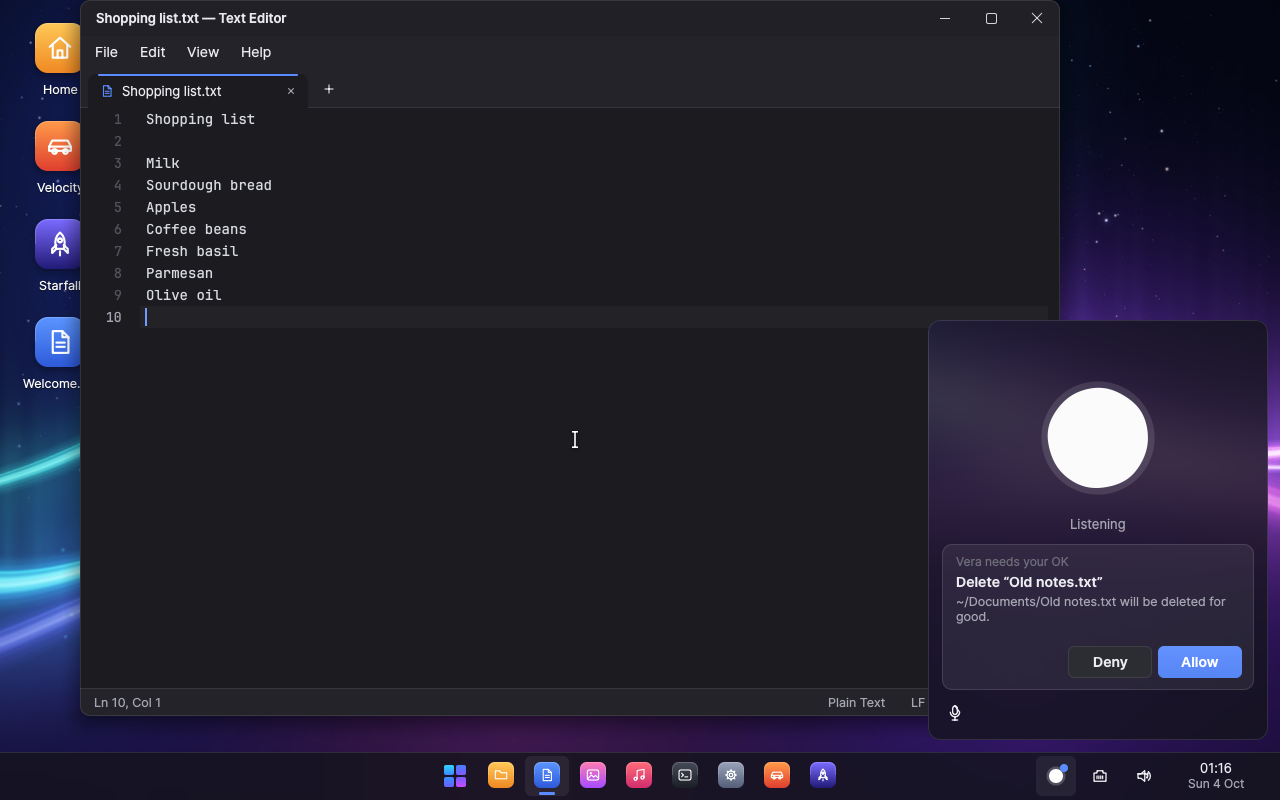
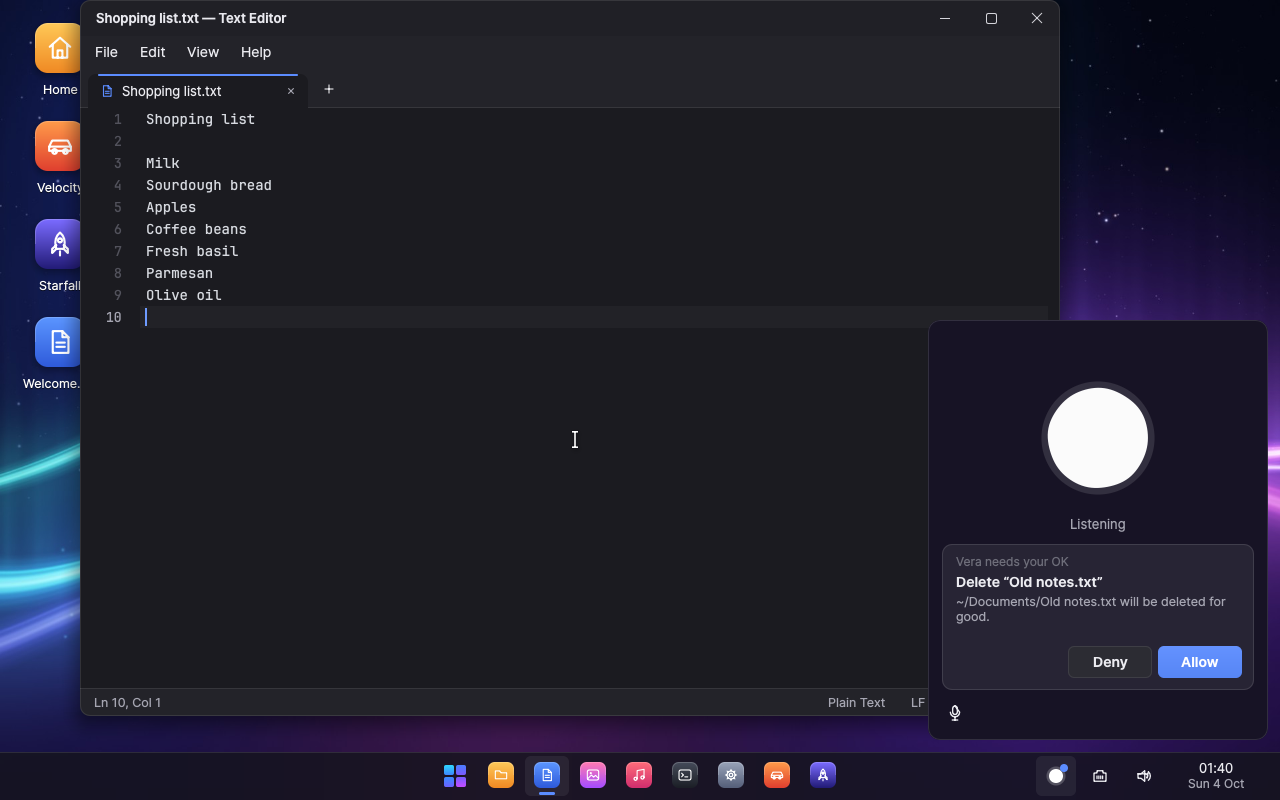
Shell: the agent's window in the taskbar's own colour
The window used the taskbar's material over the wallpaper behind it, so
it took on whatever was there (a purple glow, say) while the bar stays
dark. It now has the colour the taskbar actually shows: the bar's tint
over the wallpaper along the bottom of the screen. The README's agent
screenshots are retaken.

Changed region(s): [[0.7188, 0.4375, 1.0, 0.6562], [0.9375, 0.9375, 0.9688, 0.9688]]

diff --git a/apps/shell/src/chrome.rs b/apps/shell/src/chrome.rs
@@ -15,6 +15,31 @@ pub fn mica(c: &mut Canvas, blurred: &Bitmap, origin: (i32, i32), tint: Color) {
     c.fill_rect(r, tint);
 }
 
+/// The colour a mica surface over `area` of the screen has on average:
+/// `tint` over the blurred wallpaper there (sampled sparsely).
+pub fn mica_color(blurred: &Bitmap, area: Rect, tint: Color) -> Color {
+    let (mut r, mut g, mut b, mut n) = (0u64, 0u64, 0u64, 0u64);
+    let mut y = area.y.max(0);
+    while y < area.bottom().min(blurred.height) {
+        let mut x = area.x.max(0);
+        while x < area.right().min(blurred.width) {
+            let p = blurred.pixels[(y * blurred.width + x) as usize];
+            r += ((p >> 16) & 0xFF) as u64;
+            g += ((p >> 8) & 0xFF) as u64;
+            b += (p & 0xFF) as u64;
+            n += 1;
+            x += 8;
+        }
+        y += 4;
+    }
+    if n == 0 {
+        return tint;
+    }
+    let a = ((tint.0 >> 24) & 0xFF) as u64;
+    let mix = |t: u32, sum: u64| ((t as u64 * a + sum / n * (255 - a)) / 255) as u8;
+    Color::rgb(mix((tint.0 >> 16) & 0xFF, r), mix((tint.0 >> 8) & 0xFF, g), mix(tint.0 & 0xFF, b))
+}
+
 /// Standard popup background: mica, a hairline border and rounded corners.
 /// Call [`round_corners`] after drawing the content.
 pub fn popup_background(c: &mut Canvas, blurred: &Bitmap, origin: (i32, i32)) {

diff --git a/apps/shell/src/agent.rs b/apps/shell/src/agent.rs
@@ -240,7 +240,6 @@ pub fn draw_orb(ui: &mut Ui, r: Rect, a: &AgentModel, t: f32) {
 
 /// The agent's window.
 pub struct AgentWindow {
-    origin: (i32, i32),
     /// "Always allow" ticked on the approval being shown.
     always: bool,
     started: u64,
@@ -265,14 +264,18 @@ pub fn approval_title(ui: &mut Ui, r: Rect, text: &str) -> i32 {
 }
 
 impl AgentWindow {
-    pub fn new(origin: (i32, i32)) -> AgentWindow {
-        AgentWindow { origin, always: false, started: vrt::time::now_ns() }
+    pub fn new() -> AgentWindow {
+        AgentWindow { always: false, started: vrt::time::now_ns() }
     }
 
     pub fn update(&mut self, ui: &mut Ui, m: &mut Model) {
         let th = ui.theme().clone();
         let (w, h) = (ui.width, ui.height);
-        chrome::mica(&mut ui.canvas, &m.wallpaper.blurred, self.origin, TINT);
+        // The taskbar's own colour (what the bar looks like where it is),
+        // not the wallpaper behind the window.
+        let bar = Rect::new(0, m.screen.h - taskbar::HEIGHT, m.screen.w, taskbar::HEIGHT);
+        let bg = chrome::mica_color(&m.wallpaper.blurred, bar, TINT);
+        ui.canvas.fill_rect(ui.rect(), bg);
         if ui.input.key(vproto::input::keys::ESC) {
             ui.close_window();
         }

diff --git a/apps/shell/src/main.rs b/apps/shell/src/main.rs
@@ -427,7 +427,7 @@ impl Shell {
         spec.app_id = "agent".into();
         match Host::new(&self.display, spec) {
             Ok(host) => {
-                self.agent_win = Some(Popup { host, ui: agent::AgentWindow::new((r.x, r.y)) });
+                self.agent_win = Some(Popup { host, ui: agent::AgentWindow::new() });
                 self.model.agent.window_open = true;
                 // Approvals now appear in the window.
                 self.notes.remove_approvals(self.model.screen);
